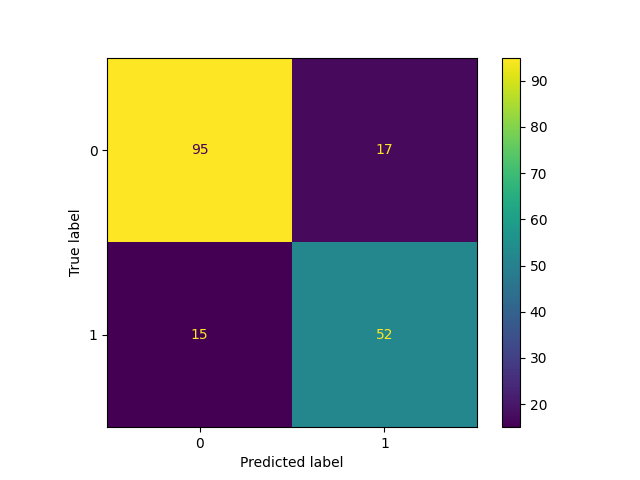
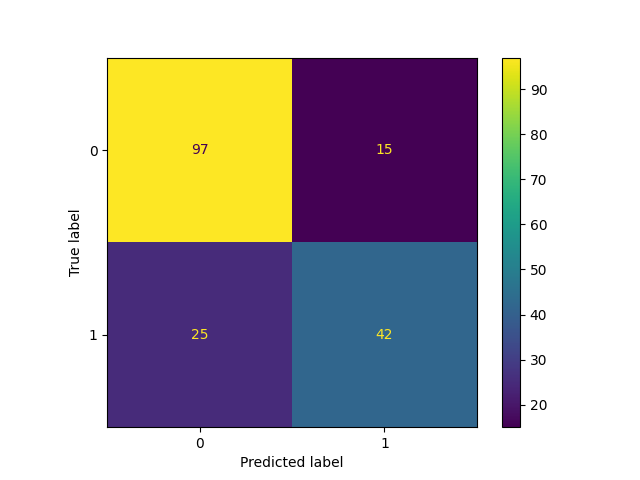
arrumando erro matriz

diff --git a/templates/home.html b/templates/home.html
@@ -12,7 +12,7 @@
         <label for="classificador">Selecione o classificador:</label>
         <select id="classificador" name="classificador">
             <option value="KNN">KNN</option>
-            <option value="MLP">NB</option>
+            <option value="SVC">SVC</option>
             <option value="DT" selected>DT</option>
             <option value="RF">RF</option>
         </select>

diff --git a/machinelearn.py b/machinelearn.py
@@ -1,17 +1,21 @@
 #imports de ciencia de dados e machine learning
 import numpy as np
 import pandas as pd
+import matplotlib
 from matplotlib import pyplot as plt
 from sklearn.metrics import classification_report, accuracy_score, precision_score, recall_score, f1_score
 from sklearn.metrics import confusion_matrix, ConfusionMatrixDisplay
 from sklearn.model_selection import train_test_split
+from sklearn.preprocessing import StandardScaler
+from sklearn.pipeline import make_pipeline
 
 #imports dos classificadores
 from sklearn.tree import DecisionTreeClassifier
 from sklearn.ensemble import RandomForestClassifier
-from sklearn.naive_bayes import GaussianNB
+from sklearn.svm import SVC
 from sklearn.neighbors import KNeighborsClassifier
 
+matplotlib.use('agg')
 def treinamentoteste(classifier_type, max_depth):
 
     url = 'https://learnenough.s3.amazonaws.com/titanic.csv'
@@ -88,11 +92,11 @@ def treinamentoteste(classifier_type, max_depth):
 
         return results
 
-    elif classifier_type == 'NB':
-        clf_nb = GaussianNB()
-        clf_nb.fit(X_train, y_train)
-        acc_nb = clf_nb.score(X_test, y_test)
-        y_pred = clf_nb.predict(X_test)
+    elif classifier_type == 'SVC':
+        clf_svc = make_pipeline(StandardScaler(), SVC(C=max_depth, gamma='auto'))
+        clf_svc.fit(X_train, y_train)
+        acc_svc = clf_svc.score(X_test, y_test)
+        y_pred = clf_svc.predict(X_test)
         
 
         cm = confusion_matrix(y_test, y_pred)

diff --git a/main.py b/main.py
@@ -17,8 +17,8 @@ def homepage():
 
             if classificador == 'KNN':
                 results = ml.treinamentoteste('KNN', max_depth)
-            elif classificador == 'MLP':
-                results = ml.treinamentoteste('MLP', max_depth)
+            elif classificador == 'SVC':
+                results = ml.treinamentoteste('SVC', max_depth)
             elif classificador == 'DT':
                 results = ml.treinamentoteste('DT', max_depth)
             elif classificador == 'RF':
